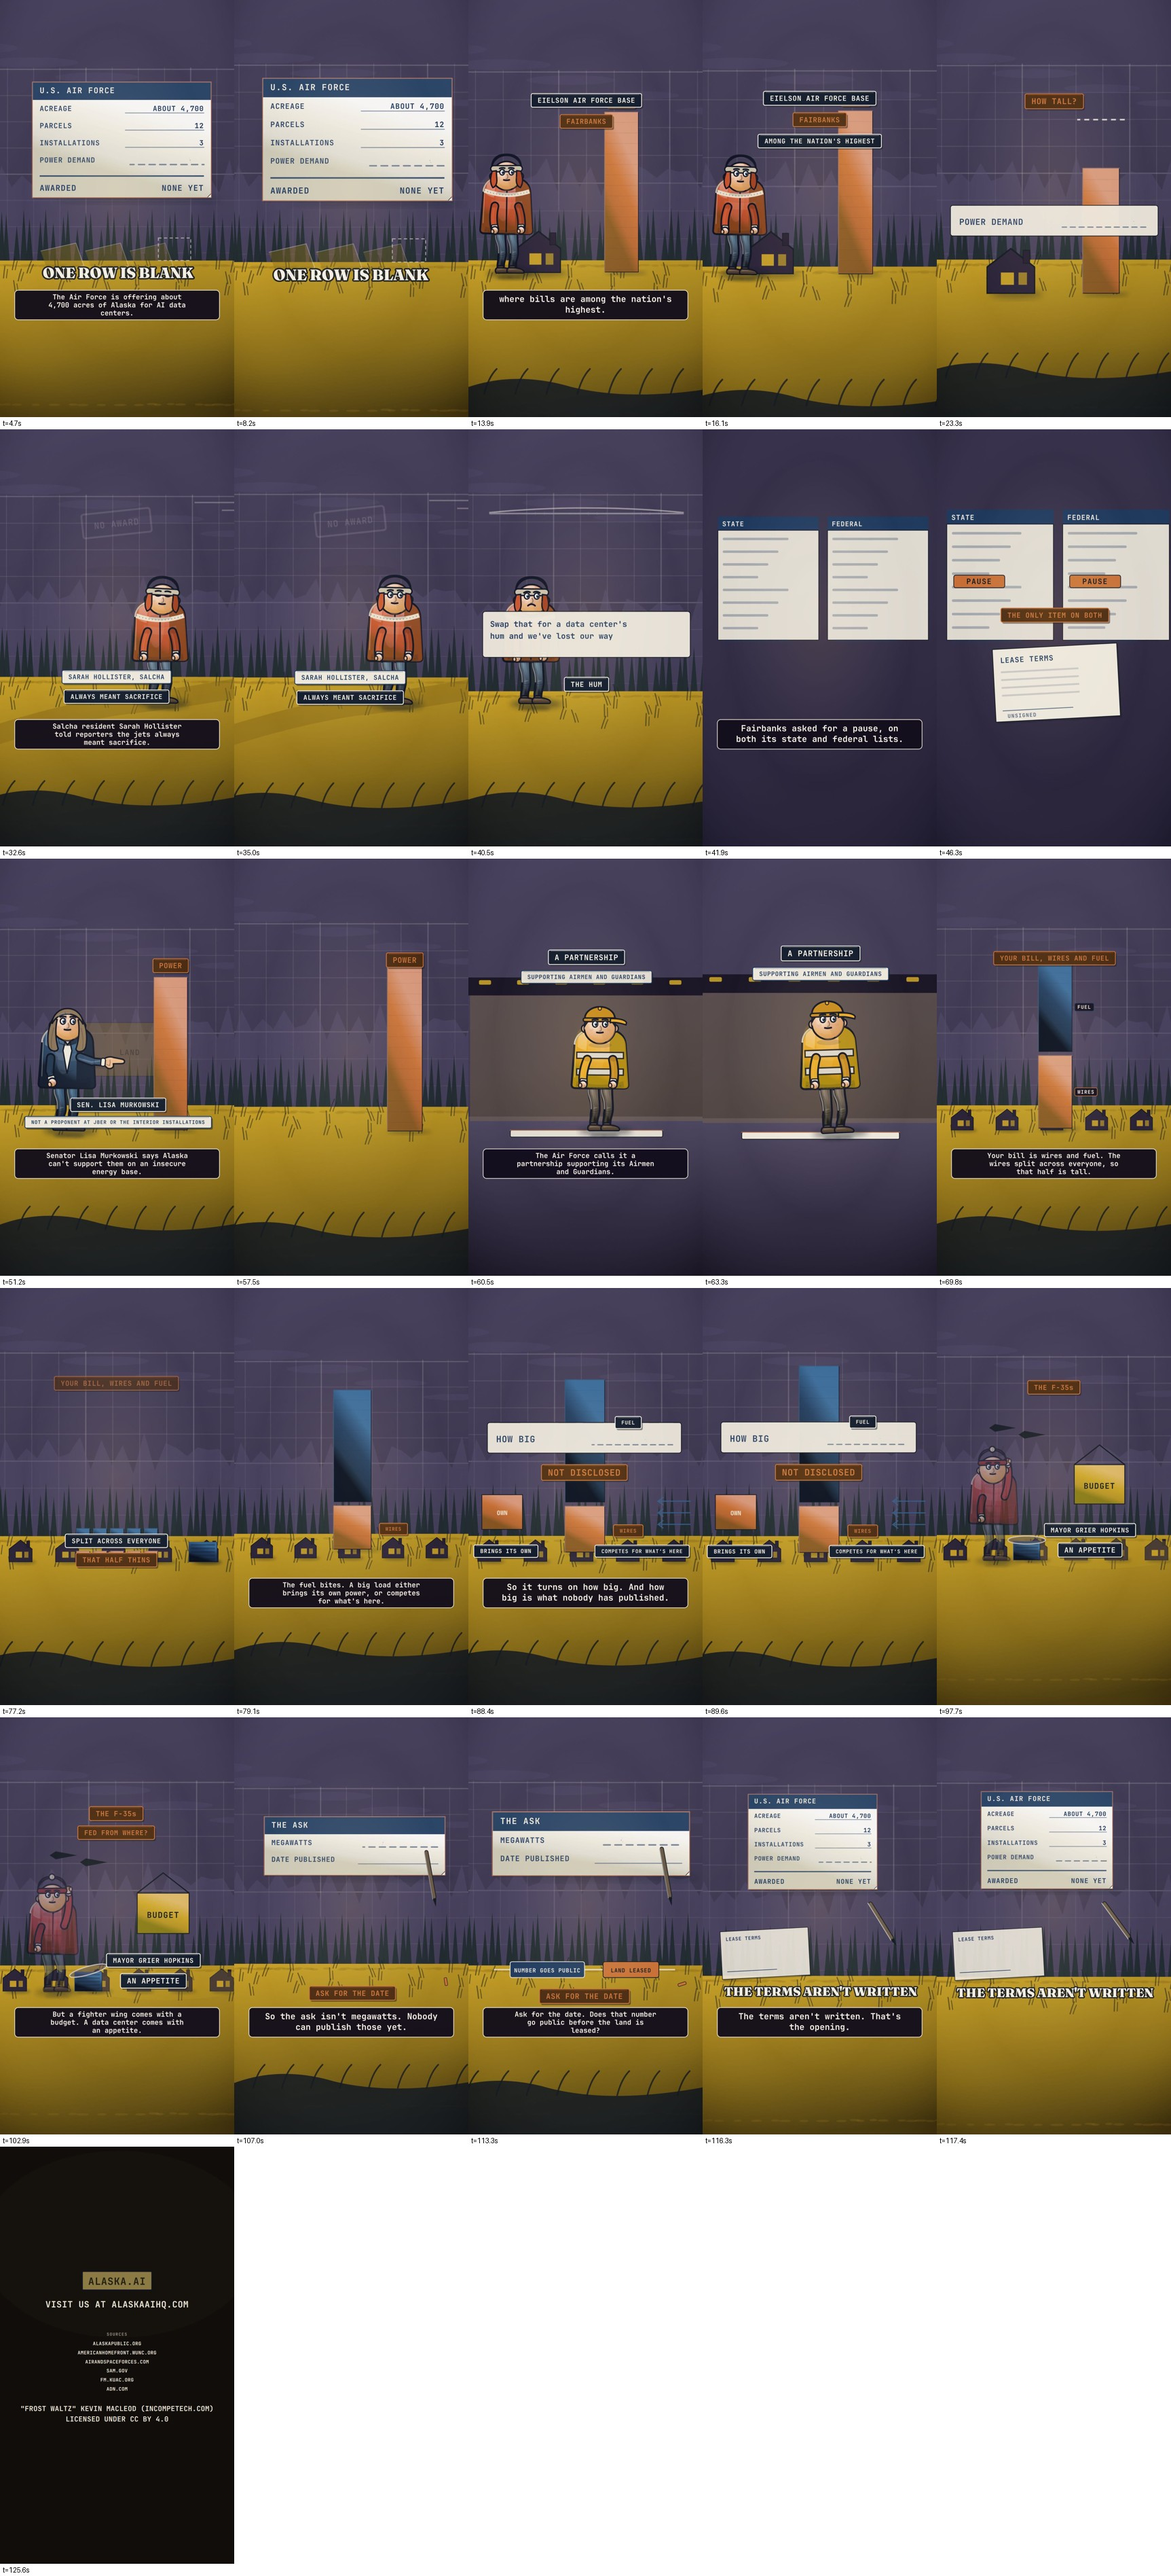
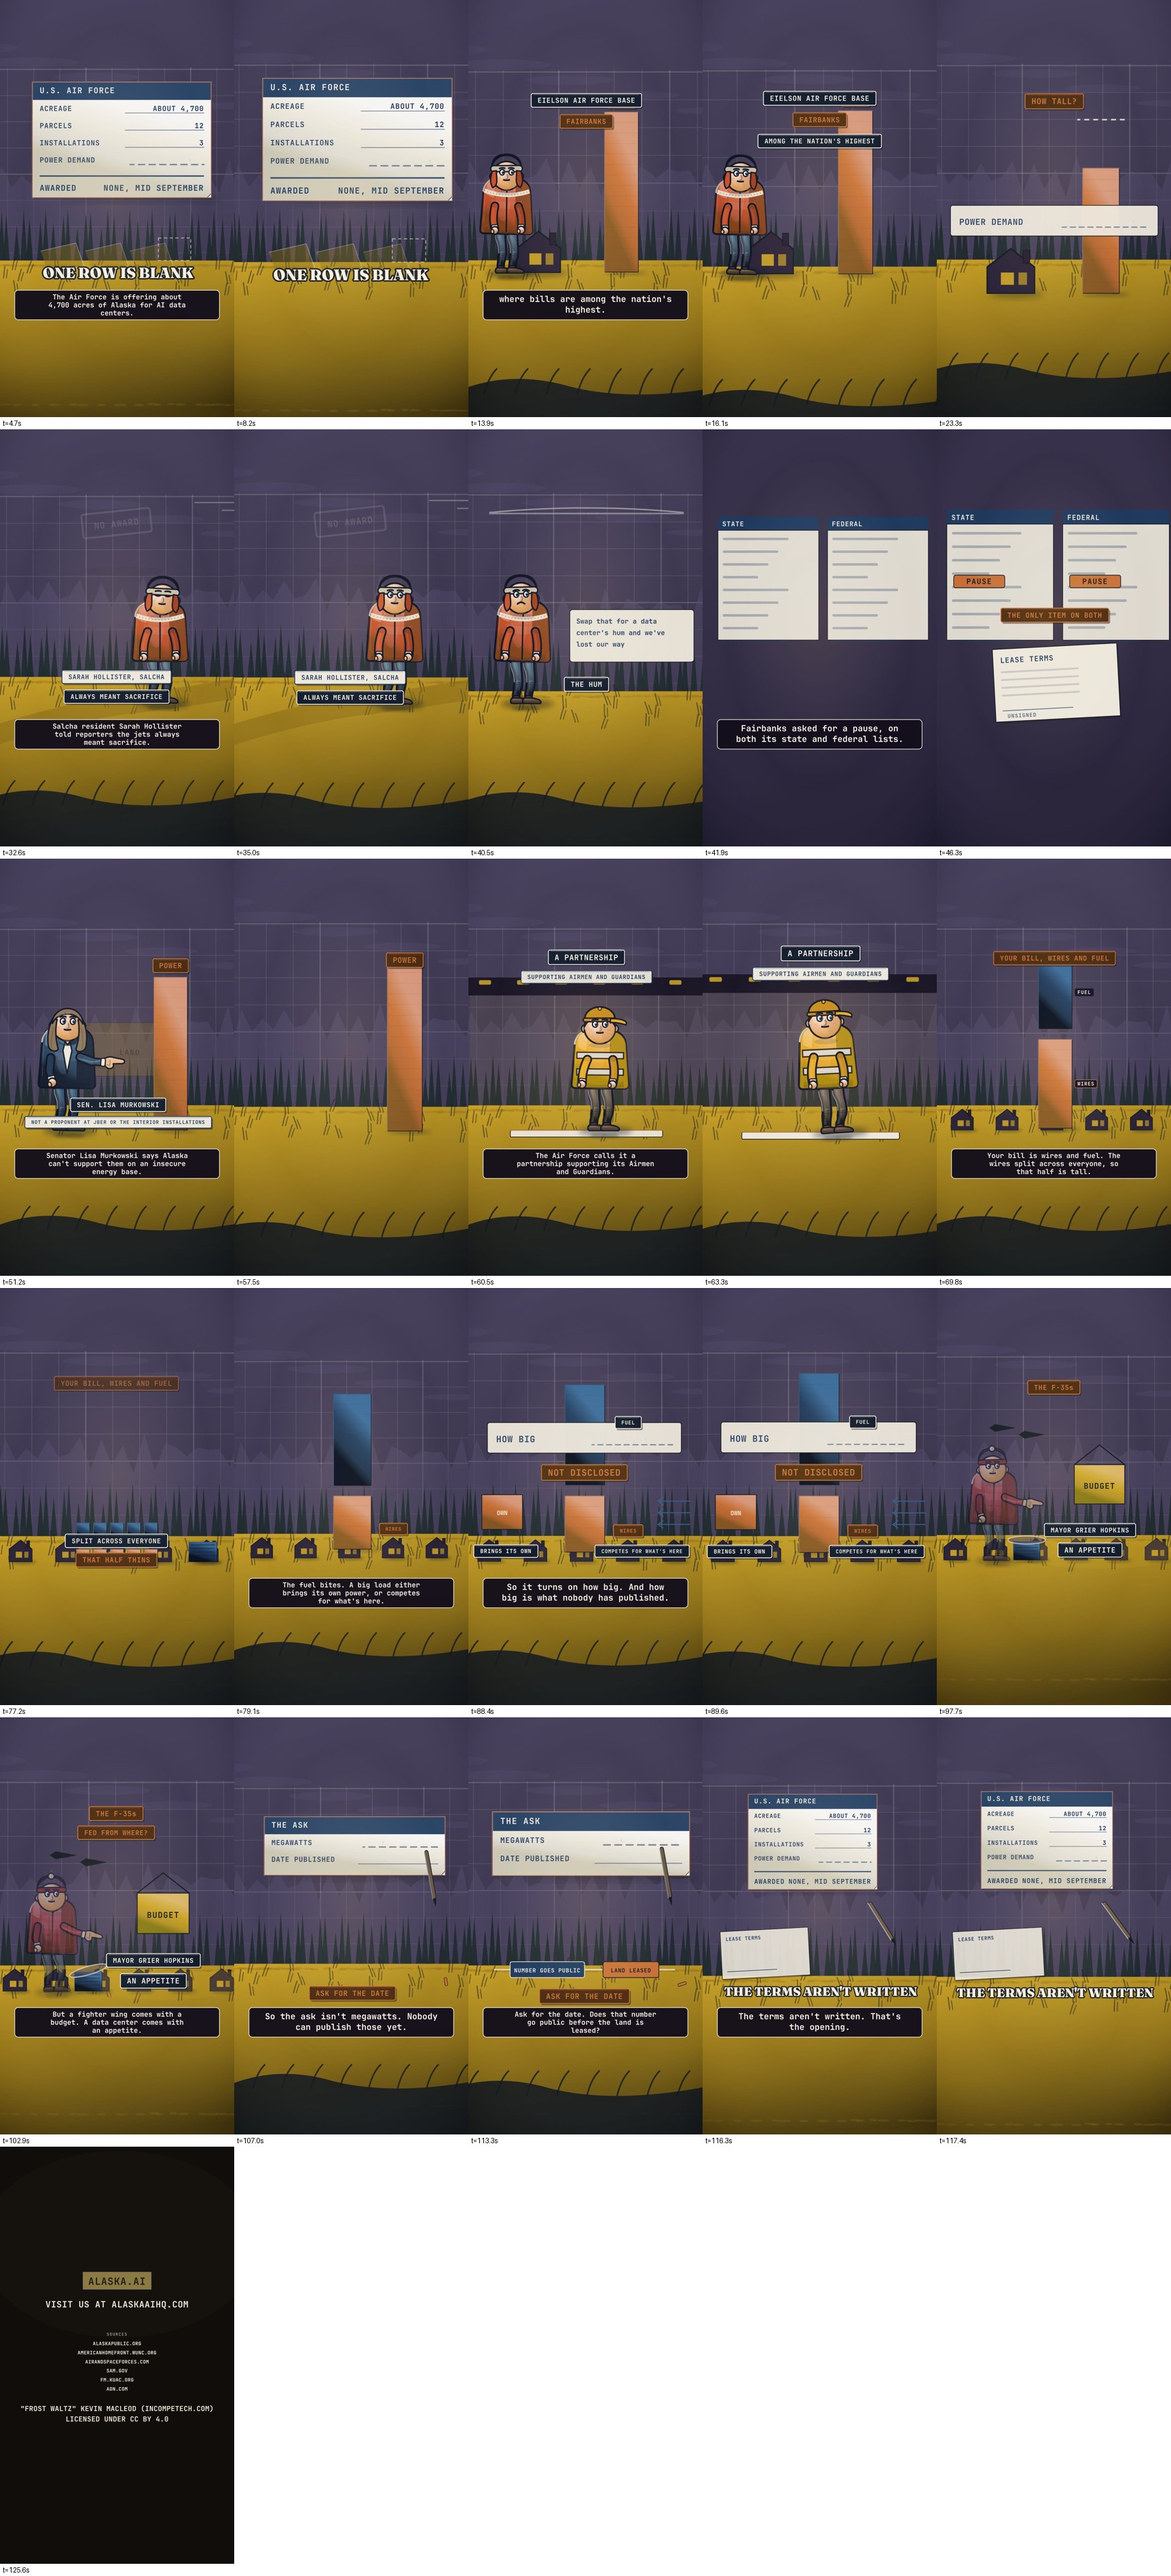
panel(2026-09-23): round three holds at 8.05, and the mayor stops being a ghost
j1 8.01, j2 8.18, j3 8.05, all three ship:true, no hard blockers. The median
moved 8.00 to 8.05, which is a stable panel rather than a drifting one, and
the explainer contradiction and the dead shove strip are both closed.

Two judges independently measured the same new fault and it is a one-token
bug: the group holding Mayor Hopkins faded to 0.6 alpha as the data center
arrived, so the spruce treeline and a sky grid line read straight through his
coat for twelve seconds. It was meant to shift focus. Focus is the arriving
block's job, not a named person's opacity.

The NOTHING AWARDED YET chip settled across Sarah Hollister's face as she
walked in. This shot's right margin is empty and the chip belongs there.

The senator's collar override was pure paper white, which also repainted her
cuffs and made them the brightest thing at her hip. Muted to stone.

diff --git a/video-engine/src/Ep0923.tsx b/video-engine/src/Ep0923.tsx
@@ -383,7 +383,9 @@ const Shot: React.FC<{n: number; from: number; dur: number; beats: Beat[]}> = ({
             </g>
           ))}
         </g>
-        <Plate text="NOTHING AWARDED YET" y={790} size={30} p={stamp * (1 - walk)} />
+        {/* x 540 -> 782. Centred, this chip settled across Hollister's face as she walked
+            in. The right margin is empty in this shot and the chip belongs there. */}
+        <Plate text="NOTHING AWARDED YET" x={782} y={790} size={30} p={stamp * (1 - walk)} />
         <Plate text="SARAH HOLLISTER, SALCHA" y={1130} size={28} tone="paper" p={walk} />
         <Plate text="ALWAYS MEANT SACRIFICE" y={1216} size={28} p={jets} />
       </SVG>
@@ -504,7 +506,7 @@ const Shot: React.FC<{n: number; from: number; dur: number; beats: Beat[]}> = ({
               for exactly this. The trim override also retires the necktie, which that
               outfit ships red and which this film's palette does not license. */}
           <Character frame={f} x={300} y={GY} scale={1.24} outfit="suit" headgear="bare"
-            hairStyle="long" hair="#8A7358" trim={C.paper}
+            hairStyle="long" hair="#8A7358" trim="#B4AB9B"
             pose="point" emotion="neutral" facing={1} gesture={gesture} idleGain={1.0} />
         </g>
         <Plate text="SEN. LISA MURKOWSKI" y={1128} size={30} p={arrive * (1 - alone)} />
@@ -664,7 +666,11 @@ const Shot: React.FC<{n: number; from: number; dur: number; beats: Beat[]}> = ({
         {/* x 150 -> 272: at 150 the content zoom carried his left half off the frame for
             his entire twelve-second beat. He now stands clear of the edge, in front of
             his own town rather than half outside it. */}
-        <g opacity={1 - arrive2 * 0.4}>
+        {/* FULLY OPAQUE. This group faded to 0.6 as the data center arrived, which was
+            meant to shift focus and instead rendered a named mayor semi-transparent: two
+            judges measured the spruce treeline and a sky grid line reading straight
+            through his coat for twelve seconds. Focus is the block's job, not his alpha. */}
+        <g>
           {/* POINT, NOT RAISE. The raise pose sends the near arm up past the head, and on a
               figure in a red garment that tube crossed his face and read as somebody
               shielding their eyes. He is showing you his town, which is what a point is
